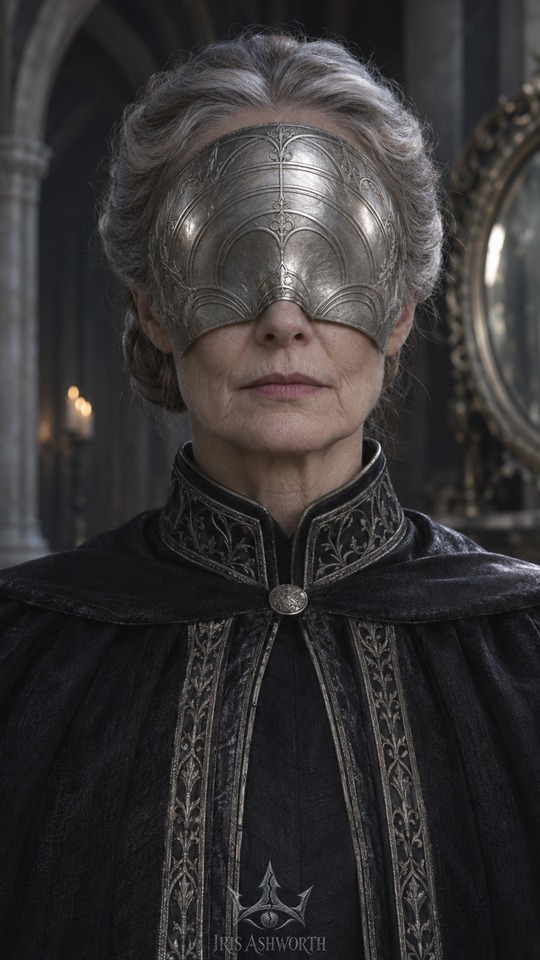
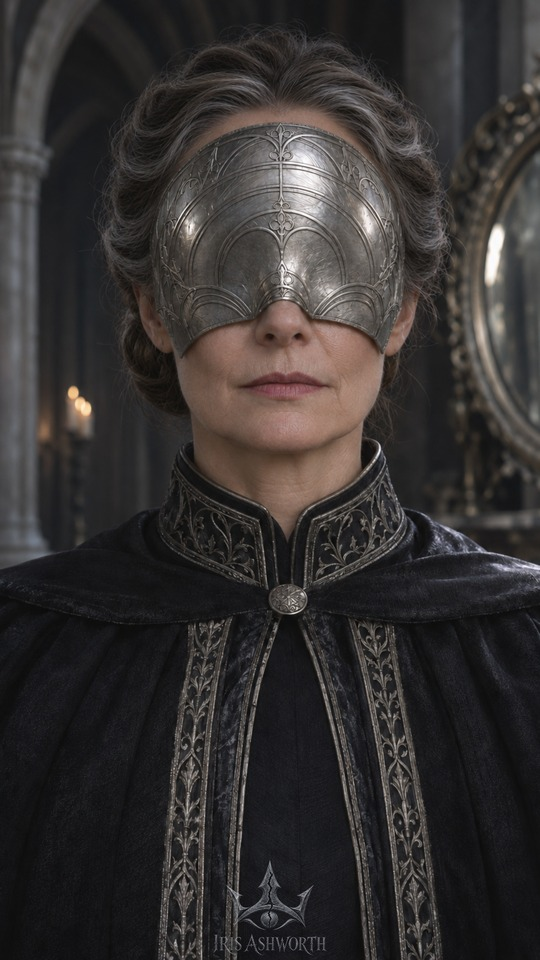
Add files via upload

diff --git a/characters.html b/characters.html
@@ -11,6 +11,9 @@
   <link rel="stylesheet" href="responsive.css">
   <link rel="stylesheet" href="world.css">
 <link rel="stylesheet" href="serial-preview.css">
+  <style>
+    #character-list .avatar img { height:auto; aspect-ratio:1; object-fit:cover; }
+  </style>
 </head>
 <body>
   <a class="skip" href="#main">본문으로 건너뛰기</a>
@@ -97,12 +100,22 @@
       {
         name:'칼리스타 렌', englishName:'CALISTA WREN',
         role:'원형 거울을 관리하고 판정을 선언하는 인영원의 대사제.',
-        image:'images/calista-wren.jpg', imageSmall:'images/calista-wren-small.jpg', thumbnail:'images/calista-wren-thumb.jpg', imagePosition:'center',
+        image:'images/calista-wren.jpg?v=20261118', imageSmall:'images/calista-wren-small.jpg?v=20261118', thumbnail:'images/calista-wren-thumb.jpg?v=20261118', imagePosition:'center',
         paragraphs:[
           '이마에서 광대까지 덮은 은가면에 두 눈이 가려져 있다. 세상을 직접 볼 수 없으며, 오직 거울에 비친 것만을 본다. 낮고 흔들림 없는 목소리로 판정을 선언하는 그녀에게 거울은 세상을 바라보는 유일한 창이다.',
           '사람의 말과 감정은 달라져도 거울의 판정은 흔들려서는 안 된다고 믿는다. 완벽한 후계자 아이리스는 그 믿음을 증명하는 존재다. 칼리스타는 그녀를 높이 평가하며, 정해진 자리에서 벗어나려는 기색에도 누구보다 민감하다.',
           '다른 이들의 삶에는 분명한 판정을 내리는 그녀에게도, 정작 자신이 기억하지 못하는 시간이 있다. 거울과 기록을 그토록 믿게 된 이유는 어쩌면 그 빈자리와 닿아 있을지도 모른다.'
         ], color:'#595756'
+      },
+      {
+        name:'이름 없는 존재', englishName:'THE NAMELESS CREATURE',
+        role:'어떤 거울에도 비치지 않는, 아이리스의 신비로운 동행자.',
+        image:'images/nameless-creature.jpg', imageSmall:'images/nameless-creature-small.jpg', thumbnail:'images/nameless-creature-thumb.jpg', imagePosition:'center',
+        paragraphs:[
+          '여우와 고양이 사이처럼 보이는 작은 존재. 어디에서 왔는지, 언제부터 왕궁을 드나들었는지 아는 사람은 없다. 닫힌 문 너머에도 불쑥 나타나지만, 누군가 다가오면 흔적 없이 모습을 감춘다.',
+          '유독 아이리스에게는 곁을 내어준다. 때로는 말없이 함께 머물고, 때로는 오래 감춰진 곳으로 그녀의 시선을 이끈다. 우연히 제 길을 가는 것인지, 그녀에게 무언가를 보여주려는 것인지는 알 수 없다.',
+          '아이리스만의 비밀처럼 여겨졌던 존재는 뜻밖에도 홀리스 앞에서 사라지지 않는다. 스스로 다가가 손길까지 허락하는 작은 짐승. 어째서 두 사람에게는 모습을 드러내는지, 그 눈으로 무엇을 보고 있는지는 여전히 수수께끼다.'
+        ], color:'#605044'
       }
     ];
     const twoDigits = number => String(number).padStart(2,'0');
